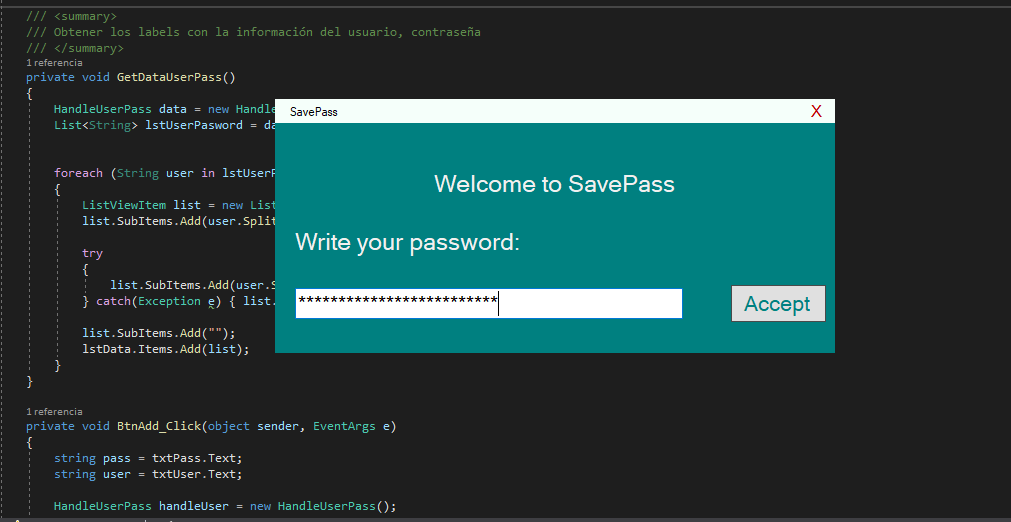
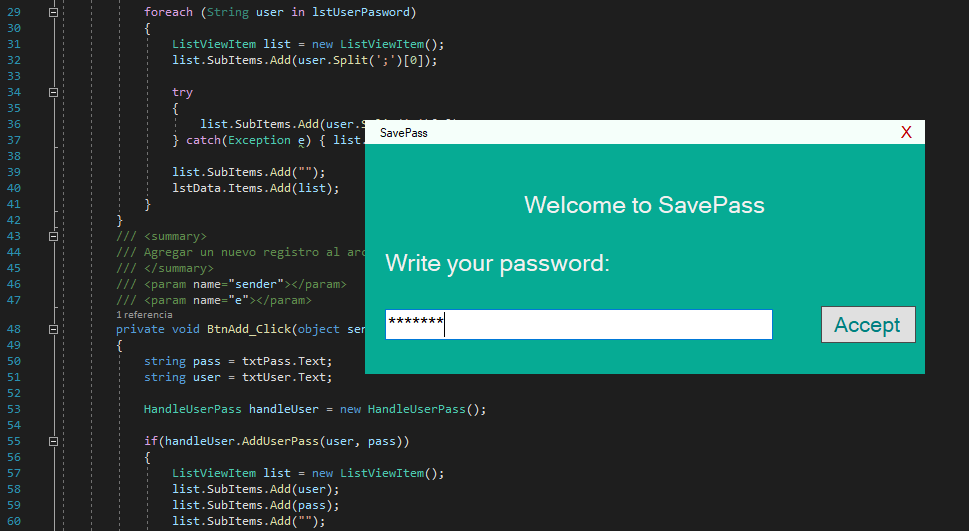
Se han agregado las capturs de pantalla de la version 1.1.0

diff --git a/README.md b/README.md
@@ -24,6 +24,6 @@ Language: C# .NETFramework,Version=v4.7.2
 
 Tested on windows systems
 
-Version: 1.0.0
+Version: 1.1.0
 
 Status: Completed
